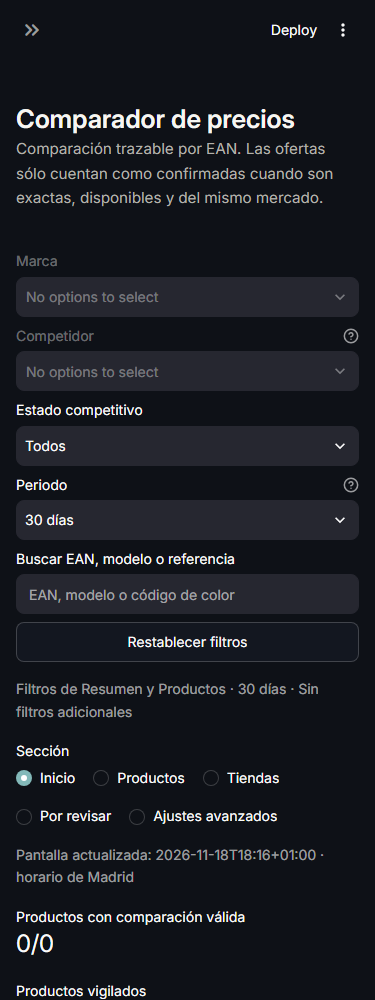
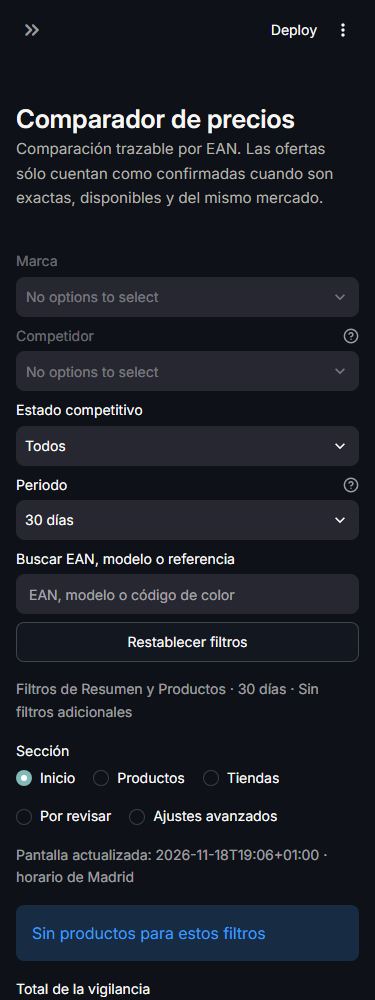
fix(comparator): preserve Odoo authority and review scope

Changed region(s): [[0.0293, 0.899, 0.968, 1.0], [0.6453, 0.837, 0.8507, 0.868]]

diff --git a/app_pages/price_watch.py b/app_pages/price_watch.py
@@ -365,44 +365,51 @@ def _render_saved_reevaluation(store: PriceComparatorStore) -> None:
                     st.error(str(exc))
 
 
-def _render_locator(store: PriceComparatorStore, names: dict[str, str]) -> None:
-    st.caption("Motor propio: busca cada producto vigilado por marca + modelo + código de color en las fuentes "
-               "autorizadas (URL ya verificada, feed, sitemap, páginas de marca/catálogo, buscador interno), guarda "
-               "un índice local reutilizable y confirma solo coincidencias exactas. Sin servicios externos. Un "
-               "bloqueo o un límite suspende el competidor; la falta de autorización nunca se registra como "
-               "«producto inexistente».")
-    locator = PriceLocator(store)
-    c1, c2, c3, c4 = st.columns([1.2, 1.5, 1, 1])
-    if c1.button("Preparar cola", key="locate_enqueue", width="stretch",
-                 help="Crea las búsquedas pendientes de los productos vigilados (sin consultas HTTP)."):
-        result = locator.enqueue()
-        st.success(f"{result['created']} búsquedas nuevas · {result['relocate']} relocalizaciones · "
-                   f"{result['reopened']} reabiertas tras cambios de autorización.")
-    target = c2.selectbox("Competidor", ["Todos", *ordered(names, names.get)], key="locate_competitor",
-                          format_func=lambda value: names.get(value, value))
-    max_jobs = c3.number_input("Máx. productos", 1, 2000, 50, key="locate_max_jobs")
-    deadline = c4.number_input("Plazo (min)", 1, 120, 10, key="locate_deadline")
-    if st.button("Procesar lote", key="locate_run", type="primary",
-                 help="Consulta solo métodos autorizados, dentro de presupuestos, pausas y robots.txt."):
-        with st.spinner("Localizando fichas…"):
-            report = locator.run(None if target == "Todos" else [target], max_jobs=int(max_jobs),
-                                 deadline_seconds=float(deadline) * 60)
-        st.success(report.summary)
-        for cid, reason in report.stopped.items():
-            st.warning(f"{names.get(cid, cid)}: {reason}")
+def _render_locator(store: PriceComparatorStore, names: dict[str, str], *, advanced: bool = True) -> None:
+    """Review tray and optional advanced locator tools.
 
-    status = locator.status()
-    totals = status.groupby("state")["jobs"].sum() if not status.empty else pd.Series(dtype=int)
-    cols = st.columns(5)
-    for col, (label, keys) in zip(cols, [("Verificadas", ("done",)), ("Pendientes", ("pending", "running", "waiting")),
-                                         ("Revisión manual", ("review",)),
-                                         ("Sin acceso / bloqueadas", ("unavailable", "blocked")),
-                                         ("Sin ficha / fallidas", ("not_found", "failed"))]):
-        col.metric(label, int(sum(totals.get(key, 0) for key in keys)))
-    if not status.empty:
-        pivot = status.assign(state=status["state"].map(lambda s: JOB_STATES.get(s, s))).pivot_table(
-            index="competitor", columns="state", values="jobs", aggfunc="sum", fill_value=0)
-        st.dataframe(pivot, width="stretch")
+    The review mechanics stay shared; advanced queue, limits and diagnostics are only shown to
+    the settings page that opts into them.
+    """
+    locator = PriceLocator(store)
+    if advanced:
+        st.caption("Motor propio: busca cada producto vigilado por marca + modelo + código de color en las fuentes "
+                   "autorizadas (URL ya verificada, feed, sitemap, páginas de marca/catálogo, buscador interno), "
+                   "guarda un índice local reutilizable y confirma solo coincidencias exactas. Sin servicios externos.")
+        c1, c2, c3, c4 = st.columns([1.2, 1.5, 1, 1])
+        if c1.button("Preparar cola", key="locate_enqueue", width="stretch",
+                     help="Crea las búsquedas pendientes de los productos vigilados (sin consultas HTTP)."):
+            result = locator.enqueue()
+            st.success(f"{result['created']} búsquedas nuevas · {result['relocate']} relocalizaciones · "
+                       f"{result['reopened']} reabiertas tras cambios de autorización.")
+        target = c2.selectbox("Competidor", ["Todos", *ordered(names, names.get)], key="locate_competitor",
+                              format_func=lambda value: names.get(value, value))
+        max_jobs = c3.number_input("Máx. productos", 1, 2000, 50, key="locate_max_jobs")
+        deadline = c4.number_input("Plazo (min)", 1, 120, 10, key="locate_deadline")
+        if st.button("Procesar lote", key="locate_run", type="primary",
+                     help="Consulta solo métodos autorizados, dentro de presupuestos, pausas y robots.txt."):
+            with st.spinner("Localizando fichas…"):
+                report = locator.run(None if target == "Todos" else [target], max_jobs=int(max_jobs),
+                                     deadline_seconds=float(deadline) * 60)
+            st.success(report.summary)
+            for cid, reason in report.stopped.items():
+                st.warning(f"{names.get(cid, cid)}: {reason}")
+
+        status = locator.status()
+        totals = status.groupby("state")["jobs"].sum() if not status.empty else pd.Series(dtype=int)
+        cols = st.columns(5)
+        for col, (label, keys) in zip(cols, [
+            ("Verificadas", ("done",)),
+            ("Pendientes", ("pending", "running", "waiting")),
+            ("Revisión manual", ("review",)),
+            ("Sin acceso / bloqueadas", ("unavailable", "blocked")),
+            ("Sin ficha / fallidas", ("not_found", "failed")),
+        ]):
+            col.metric(label, int(sum(totals.get(key, 0) for key in keys)))
+        if not status.empty:
+            pivot = status.assign(state=status["state"].map(lambda s: JOB_STATES.get(s, s))).pivot_table(
+                index="competitor", columns="state", values="jobs", aggfunc="sum", fill_value=0)
+            st.dataframe(pivot, width="stretch")
 
     review = locator.jobs(states=("review",), limit=None)
     st.markdown(f"**Revisión manual** ({len(review)})")
@@ -611,7 +618,8 @@ def _render_locator(store: PriceComparatorStore, names: dict[str, str]) -> None:
                 st.session_state["manual_review_grid_revision"] = revision + 1
                 st.rerun()
 
-    _render_saved_reevaluation(store)
+    if advanced:
+        _render_saved_reevaluation(store)
 
     st.markdown("**Progreso persistente de confirmaciones y lecturas**")
     monitor = PriceMonitor(store)
@@ -644,23 +652,24 @@ def _render_locator(store: PriceComparatorStore, names: dict[str, str]) -> None:
                                       "retry_at": "Reintento más próximo"}),
                      hide_index=True, width="stretch", column_config={"URL": st.column_config.LinkColumn("URL")})
 
-    with st.expander("Últimas búsquedas"):
-        recent = locator.jobs(limit=200)
-        if recent.empty:
-            st.caption("Sin búsquedas todavía.")
-        else:
-            st.dataframe(recent.assign(state=recent["state"].map(lambda s: JOB_STATES.get(s, s)))[
-                ["ean", "brand", "model", "color", "competitor", "kind", "state", "method", "url", "detail",
-                 "updated_at"]], hide_index=True, width="stretch")
-    with st.expander("Índice local de fichas"):
-        st.caption("Fichas y enlaces ya descubiertos: se reutilizan entre productos y ejecuciones. Las páginas de "
-                   "marca/catálogo solo se vuelven a consultar cuando caducan.")
-        st.dataframe(locator.index_summary().rename(columns={
-            "competitor": "Competidor", "indexed": "Enlaces indexados", "checked": "Fichas comprobadas",
-            "pages": "Páginas de listado", "last_refresh": "Última actualización", "sources": "Fuentes activas"}),
-            hide_index=True, width="stretch")
-    _render_sources(locator, names)
-    _render_locate_schedule(locator, names)
+    if advanced:
+        with st.expander("Últimas búsquedas"):
+            recent = locator.jobs(limit=200)
+            if recent.empty:
+                st.caption("Sin búsquedas todavía.")
+            else:
+                st.dataframe(recent.assign(state=recent["state"].map(lambda s: JOB_STATES.get(s, s)))[
+                    ["ean", "brand", "model", "color", "competitor", "kind", "state", "method", "url", "detail",
+                     "updated_at"]], hide_index=True, width="stretch")
+        with st.expander("Índice local de fichas"):
+            st.caption("Fichas y enlaces ya descubiertos: se reutilizan entre productos y ejecuciones. Las páginas de "
+                       "marca/catálogo solo se vuelven a consultar cuando caducan.")
+            st.dataframe(locator.index_summary().rename(columns={
+                "competitor": "Competidor", "indexed": "Enlaces indexados", "checked": "Fichas comprobadas",
+                "pages": "Páginas de listado", "last_refresh": "Última actualización", "sources": "Fuentes activas"}),
+                hide_index=True, width="stretch")
+        _render_sources(locator, names)
+        _render_locate_schedule(locator, names)
 
 
 def _render_sources(locator: PriceLocator, names: dict[str, str]) -> None:

diff --git a/tests/test_vytria_price_sync.py b/tests/test_vytria_price_sync.py
@@ -51,7 +51,7 @@ CREATE TABLE product_pricelist_map(id INTEGER PRIMARY KEY, name TEXT);
 CREATE TABLE product_pricelist_map_product_template_rel(product_template_id INTEGER, product_pricelist_map_id INTEGER);
 CREATE TABLE product_pricelist_item(id INTEGER PRIMARY KEY, pricelist_id INTEGER, applied_on TEXT,
     product_pricelist_map_id INTEGER, product_id INTEGER, product_tmpl_id INTEGER, compute_price TEXT, base TEXT,
-    price_discount NUMERIC, price_surcharge NUMERIC, price_round NUMERIC, min_quantity NUMERIC,
+    price_discount NUMERIC, price_surcharge NUMERIC, price_round NUMERIC, fixed_price NUMERIC, min_quantity NUMERIC,
     date_start TEXT, date_end TEXT, active BOOLEAN);
 INSERT INTO res_currency VALUES (1,'EUR'),(2,'USD');
 """
@@ -105,9 +105,12 @@ class OdooFixture:
             self._maps[name] = self._id()
             self.execute("INSERT INTO product_pricelist_map VALUES(:i,:n)", i=self._maps[name], n=name)
             self.execute("""INSERT INTO product_pricelist_item(id,pricelist_id,applied_on,product_pricelist_map_id,
-                compute_price,base,price_discount,price_surcharge,price_round,min_quantity,active)
-                VALUES(:i,59,'1_pricelist_map',:m,'formula','list_price',:d,:s,1.0,0,1)""",
-                         i=self._id(), m=self._maps[name], d=discount, s=extra.get("surcharge", 0))
+                compute_price,base,price_discount,price_surcharge,price_round,fixed_price,min_quantity,active)
+                VALUES(:i,59,'1_pricelist_map',:m,:compute,:base,:d,:s,1.0,:fixed,0,1)""",
+                         i=self._id(), m=self._maps[name],
+                         compute=extra.get("compute_price", "formula"), base=extra.get("base", "list_price"),
+                         d=discount, s=extra.get("surcharge", 0),
+                         fixed=extra.get("fixed_price"))
         return self._maps[name]
 
     def product(self, ean: str, list_price: float, price: float | None, *, vat: int | None = 21,
@@ -297,6 +300,31 @@ def test_local_formula_limitation_does_not_invalidate_authoritative_received_pri
     row = _current(store, "8056262398043")
     assert (row["price"], row["validation_status"], row["comparable"]) == (252, "validated", 1)
     assert "recargo" in row["validation_detail"] and "importe recibido" in row["validation_detail"]
+
+
+def test_fixed_map_uses_authoritative_received_price_not_fixed_label(tmp_path) -> None:
+    store, odoo = _store(tmp_path, ["8056262398043"]), OdooFixture(tmp_path / "odoo.sqlite3")
+    odoo.product("8056262398043", 360, 222,
+                 maps=(odoo.map_rule("Vytria fijo promocional", 30,
+                                     compute_price="fixed", fixed_price=222),))
+
+    _sync(store, odoo).run()
+
+    row = _current(store, "8056262398043")
+    assert (row["price"], row["validation_status"], row["comparable"]) == (222, "validated", 1)
+    assert "precio fijo acreditado" in row["validation_detail"]
+
+
+def test_fixed_map_preserves_received_price_when_label_differs(tmp_path) -> None:
+    store, odoo = _store(tmp_path, ["8056262398043"]), OdooFixture(tmp_path / "odoo.sqlite3")
+    odoo.product("8056262398043", 360, 237,
+                 maps=(odoo.map_rule("Vytria España (65%)", 30,
+                                     compute_price="fixed", fixed_price=237),))
+
+    _sync(store, odoo).run()
+
+    row = _current(store, "8056262398043")
+    assert (row["price"], row["validation_status"], row["comparable"]) == (237, "validated", 1)
 
 
 def test_product_without_map_is_not_comparable(tmp_path) -> None:

diff --git a/vytria_price_sync.py b/vytria_price_sync.py
@@ -94,6 +94,7 @@ class MapRule:
     rounding: Decimal | None = None
     min_quantity: Decimal | None = None
     has_dates: bool = False
+    fixed_price: Decimal | None = None
 
 
 @dataclass(frozen=True)
@@ -185,7 +186,7 @@ TAXES_SQL = text("""
 MAPS_SQL = text("""
     SELECT rel.product_template_id AS template_id, m.id AS map_id, CAST(m.name AS TEXT) AS map_name,
            i.id AS item_id, i.price_discount, i.price_surcharge, i.compute_price, i.base,
-           i.price_round, i.min_quantity, i.date_start, i.date_end
+           i.price_round, i.min_quantity, i.date_start, i.date_end, i.fixed_price
     FROM product_pricelist_map_product_template_rel rel
     JOIN product_pricelist_map m ON m.id = rel.product_pricelist_map_id
     LEFT JOIN product_pricelist_item i ON i.product_pricelist_map_id = m.id
@@ -280,7 +281,8 @@ class SqlOdooPriceReader:
                     surcharge=_dec(row["price_surcharge"]), compute_price=row["compute_price"] or "",
                     base=row["base"] or "", rounding=_dec(row["price_round"]),
                     min_quantity=_dec(row["min_quantity"]),
-                    has_dates=bool(row["date_start"] or row["date_end"])))
+                    has_dates=bool(row["date_start"] or row["date_end"]),
+                    fixed_price=_dec(row["fixed_price"])))
         for pid_chunk in _chunks(product_ids):
             for tid_chunk in _chunks(template_ids):
                 for row in connection.execute(PRODUCT_RULES_SQL, {
@@ -333,8 +335,13 @@ def _map_expected(product: OdooProduct) -> tuple[Decimal | None, str, str]:
         discount = rule.discount or Decimal(0)
         named = re.search(r"\((\d+(?:[.,]\d+)?)\s*%\)", rule.map_name)
         if rule.compute_price != "formula" or rule.base != "list_price":
-            informative.append(f"{rule.map_name}: cálculo vigente distinto de la reproducción local "
-                               f"{rule.compute_price}/{rule.base}; se acredita el importe recibido")
+            if rule.fixed_price is not None:
+                fixed = _rounded(rule.fixed_price, rule.rounding)
+                informative.append(f"{rule.map_name}: precio fijo acreditado por la tarifa vigente "
+                                   f"(importe recibido: {fixed}); se conserva el precio recibido")
+            else:
+                informative.append(f"{rule.map_name}: regla vigente no reproducible localmente "
+                                   f"{rule.compute_price}/{rule.base}; se conserva el importe recibido")
             continue
         if rule.surcharge or rule.min_quantity not in (None, 0, 1) or rule.has_dates:
             informative.append(f"{rule.map_name}: recargo, cantidad mínima o fechas vigentes; "
@@ -348,6 +355,11 @@ def _map_expected(product: OdooProduct) -> tuple[Decimal | None, str, str]:
         value = product.list_price * (1 - discount / 100) + (rule.surcharge or 0)
         expectations[_rounded(value, rule.rounding)] = rule.map_name
     if not expectations:
+        if informative:
+            detail = "; ".join(informative)
+            if descriptive:
+                detail += "; " + "; ".join(descriptive)
+            return None, "informative_rule", detail
         return None, "no_map", "los mapas del producto no tienen regla en la tarifa 59" if missing else "sin reglas"
     if len(expectations) > 1:
         return None, "multiple_maps", "mapas con resultados distintos: " + ", ".join(sorted(expectations.values()))

diff --git a/tests/test_price_admin.py b/tests/test_price_admin.py
@@ -215,6 +215,33 @@ def test_observation_export_preserves_original_history_and_provenance(tmp_path):
     assert pd.isna(previous["valid_until"]) and previous["checked_at"] == previous["captured_at"]
 
 
+def test_inicio_full_selection_and_partial_filter_use_matching_denominators(tmp_path, monkeypatch):
+    store, _, _, _, _, _, _ = _monitor_env(tmp_path, count=2)
+    monkeypatch.setenv("PRICE_COMPARATOR_DB_PATH", str(store.database_path))
+    app = AppTest.from_string("from app_pages.price_comparator import render_price_comparator_page\n"
+                              "render_price_comparator_page()").run(timeout=30)
+    app.radio(key="top_level_section").set_value("Inicio").run(timeout=30)
+    metrics = {m.label: m.value for m in app.metric}
+    assert metrics["Total de la vigilancia"] == "0/2"
+
+    app.text_input(key="dashboard_search").set_value("does-not-exist").run(timeout=30)
+    metrics = {m.label: m.value for m in app.metric}
+    assert "Productos con comparación válida" in metrics
+    assert metrics["Productos con comparación válida"] == "0/0"
+
+
+def test_inicio_partial_filter_keeps_filtered_numerator_and_denominator(tmp_path, monkeypatch):
+    store, _, _, _, _, _, _ = _monitor_env(tmp_path, count=2)
+    monkeypatch.setenv("PRICE_COMPARATOR_DB_PATH", str(store.database_path))
+    app = AppTest.from_string("from app_pages.price_comparator import render_price_comparator_page\n"
+                              "render_price_comparator_page()").run(timeout=30)
+    app.radio(key="top_level_section").set_value("Inicio").run(timeout=30)
+    app.text_input(key="dashboard_search").set_value(store.products().iloc[0]["ean"]).run(timeout=30)
+    metrics = {m.label: m.value for m in app.metric}
+    assert "Productos con comparación válida" in metrics
+    assert metrics["Productos con comparación válida"] == "0/1"
+
+
 def test_inicio_valid_comparison_requires_own_and_competitor_price(tmp_path, monkeypatch):
     store, _, _, monitor, _, _, _ = _monitor_env(tmp_path, count=1)
     monkeypatch.setenv("PRICE_COMPARATOR_DB_PATH", str(store.database_path))
@@ -222,7 +249,19 @@ def test_inicio_valid_comparison_requires_own_and_competitor_price(tmp_path, mon
                               "render_price_comparator_page()").run(timeout=30)
     app.radio(key="top_level_section").set_value("Inicio").run(timeout=30)
     metrics = {m.label: m.value for m in app.metric}
-    assert metrics["Productos con comparación válida"].startswith("0/")
+    assert metrics["Total de la vigilancia"] == "0/1"
+
+
+def test_por_revisar_shows_only_review_tray_not_locator_controls(tmp_path, monkeypatch):
+    store, _, _, _, _, _, _ = _monitor_env(tmp_path, count=1)
+    monkeypatch.setenv("PRICE_COMPARATOR_DB_PATH", str(store.database_path))
+    app = AppTest.from_string("from app_pages.price_comparator import render_price_comparator_page\n"
+                              "render_price_comparator_page()").run(timeout=30)
+    app.radio(key="top_level_section").set_value("Por revisar").run(timeout=30)
+    assert not app.exception
+    assert not any(button.key == "locate_enqueue" for button in app.button)
+    assert not any(button.key == "locate_run" for button in app.button)
+    assert not any("Preparar cola" in button.label for button in app.button)
 
 
 def test_store_card_exposes_url_and_authorization_tasks(tmp_path, monkeypatch):

diff --git a/app_pages/price_comparator.py b/app_pages/price_comparator.py
@@ -1994,15 +1994,27 @@ def _render_inicio(store: PriceComparatorStore, data: dict) -> None:
                 "SELECT COUNT(*) FROM watch_products WHERE active=1").fetchone()[0]
         active_competitors = connection.execute(
             "SELECT COUNT(*) FROM competitors WHERE active=1").fetchone()[0]
-    if filtered is not None and not filtered.empty:
+    has_filters = bool(st.session_state.get("dashboard_brand")
+                       or st.session_state.get("dashboard_competitor")
+                       or st.session_state.get("dashboard_search")
+                       or st.session_state.get("dashboard_state") not in (None, analytics.STATE_ALL)
+                       or st.session_state.get("dashboard_period") not in (None, "30 días"))
+    if filtered is not None and filtered.empty:
+        valid_eans, protected_eans = 0, 0
+        st.info("Sin productos para estos filtros")
+    elif filtered is not None:
         valid_eans = int(((filtered["own_price_eur"].notna()) &
                           (filtered["competitor_count"].fillna(0) > 0)).sum())
         protected_eans = len(filtered)
     else:
-        valid_eans, protected_eans = 0, watch_count
-    protected_eans = max(protected_eans, watch_count)
+        valid_eans, protected_eans = 0, 0
+    if not has_filters:
+        protected_eans = watch_count if watch_count else (len(filtered) if filtered is not None and not filtered.empty else 0)
     cols = st.columns(4)
-    cols[0].metric("Productos con comparación válida", f"{valid_eans}/{protected_eans}")
+    cols[0].metric(
+        "Productos con comparación válida" if has_filters else "Total de la vigilancia",
+        f"{valid_eans}/{protected_eans}",
+    )
     cols[1].metric("Productos vigilados", watch_count)
     cols[2].metric("Tiendas activas", active_competitors)
     cols[3].metric("EAN protegidos", protected_eans)
@@ -2178,7 +2190,7 @@ def render_price_comparator_page() -> None:
         names = {row["id"]: row["name"] for row in store.competitors().to_dict("records")}
         from app_pages.price_watch import _render_locator
         st.subheader("Revisiones actuales")
-        _render_locator(store, names)
+        _render_locator(store, names, advanced=False)
         _render_pending_reviews(PricePilot(store))
     else:
         from app_pages.price_watch import render_admin

diff --git a/tests/test_price_known_urls.py b/tests/test_price_known_urls.py
@@ -259,7 +259,7 @@ def test_competitor_panels_have_separate_web_and_scheduler_sections_with_the_sch
     assert not _rows(ui, "SELECT 1 FROM competitor_schedule WHERE enabled=1")
     app.radio(key="top_level_section").set_value("Inicio").run(timeout=60)
     assert {metric.label: metric.value for metric in app.metric
-            }["Productos con comparación válida"].startswith("0/")
+            }["Total de la vigilancia"].startswith("0/")
     # Registered URLs remain configuration only; they do not create comparable price observations.
     assert not app.error
 

diff --git a/tests/test_price_analytics.py b/tests/test_price_analytics.py
@@ -329,7 +329,7 @@ def test_page_shows_insufficient_data_message_and_renders_with_data(tmp_path, mo
     assert not app.exception
     assert any("Datos insuficientes para medir competitividad" in item.value for item in app.info)
     assert [m.label for m in app.metric[:4]] == [
-        "Productos con comparación válida", "Productos vigilados",
+        "Total de la vigilancia", "Productos vigilados",
         "Tiendas activas", "EAN protegidos",
     ]
     rendered_headers = {item.value for item in app.header}
